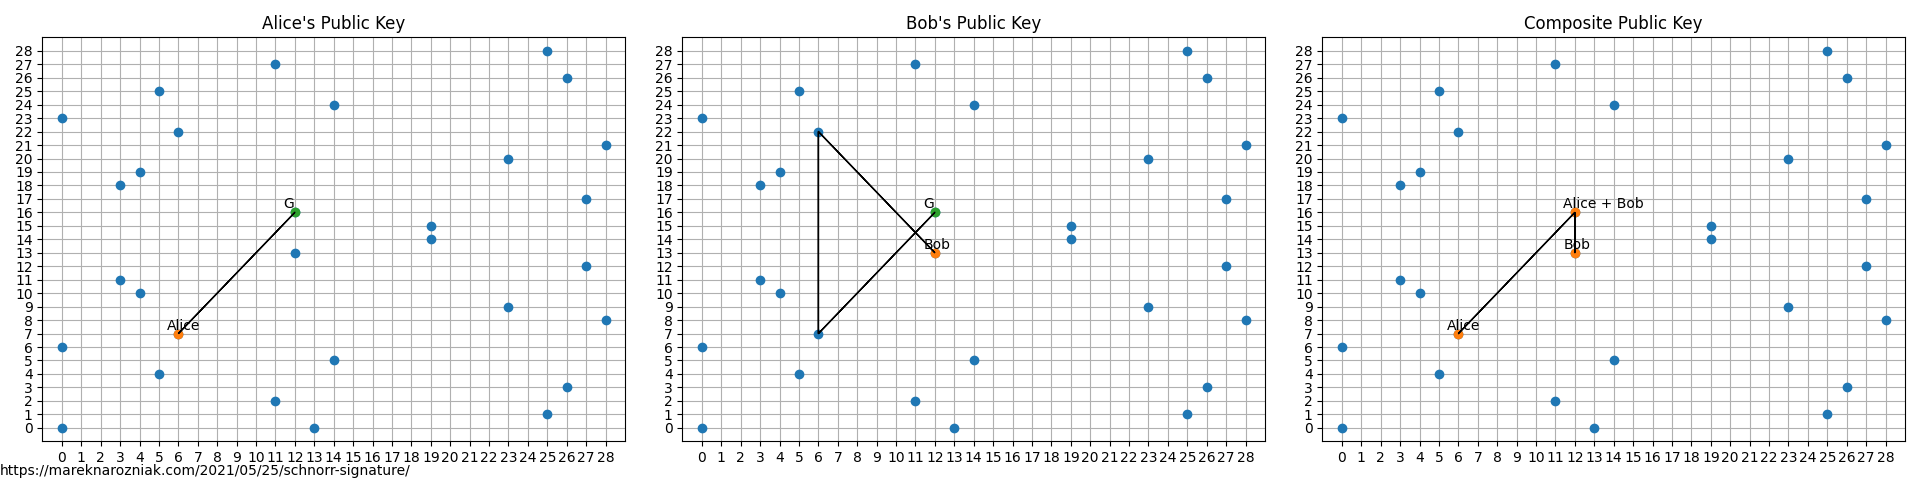
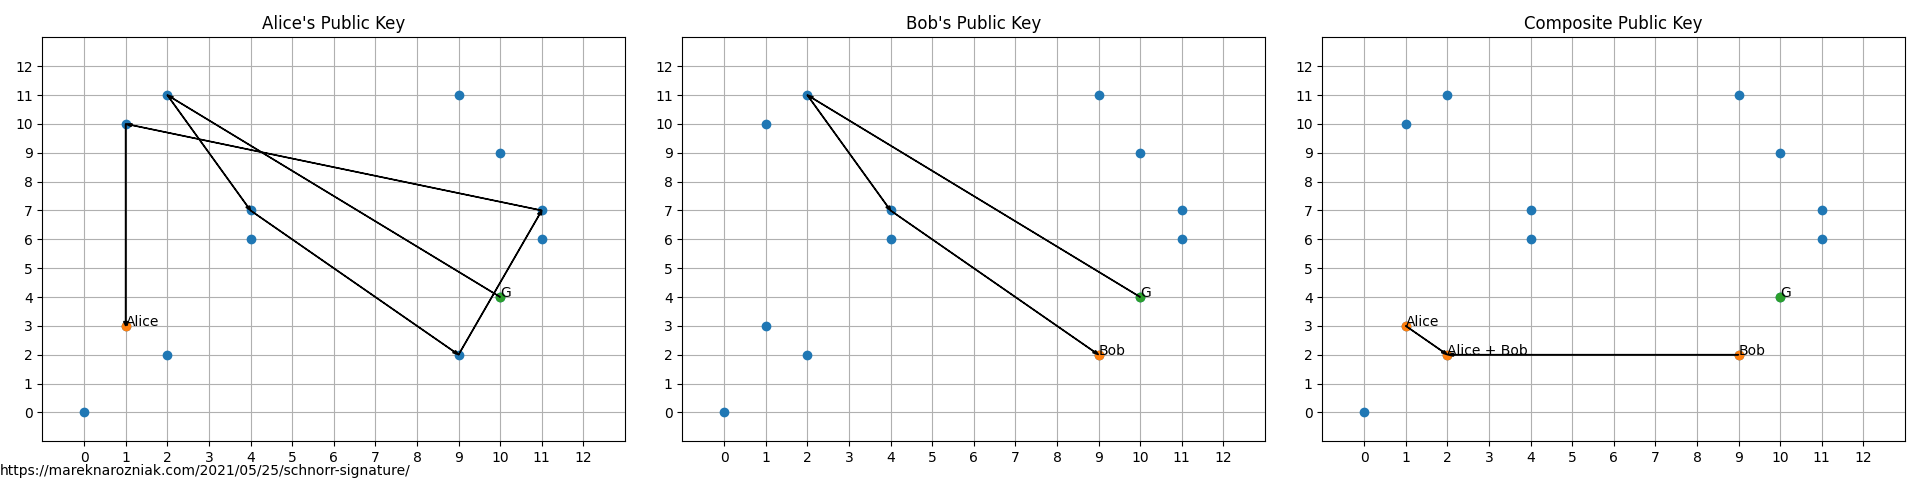
updated the schnorr signature tutorial to use the minicurve library

diff --git a/_posts/en/2021-05-25-schnorr-signature.md b/_posts/en/2021-05-25-schnorr-signature.md
@@ -58,36 +58,40 @@ s G = R + H(m \vert\vert P) P
 \end{aligned}
 $$
 
-in Python using our own ECC library as in previous tutorial the signature method is
+We will be using the [minicurve library](https://github.com/marekyggdrasil/minicurve) for implementing and visualizing this signature.
 
 ```python
-def sign(m, k, d, Gx, Gy, n, p=17, a=0, b=7):
-    # calculate public key R = k*G
-    _, _, Rx, Ry = eccScalarMult(k, Gx, Gy, a, b, p)
-    # calculate e = H(M || r) where || is concatenation
-    e = hashtard(m, p=n)
-    # calculate the signature
-    s = np.mod(k - d*e, n)
-    # signature is s, R
-    return s, Rx, Ry
+from minicurve import MiniCurve as mc
+from minicurve.helpers import inverse
 ```
 
-where $$ k $$ is the random nonce, $$ n $$ is the order of the group generated by $$ G $$ and $$ p $$ is the order of the entire finite field. We also the verification method
+The signature method is
 
 ```python
-def verify(m, s, Gx, Gy, Px, Py, Rx, Ry, n, p=17, a=0, b=7):
+def sign(m, k, d, G, p):
+    # calculate public key R = k*G
+    R = k*G
+    # calculate e = H(M || r) where || is concatenation
+    e = hashtard(m, p)
+    # calculate the signature
+    s = np.mod(k + d*e, p)
+    # signature is s, R
+    return s, R
+```
+
+where $$ k $$ is the random nonce, $$ p $$ is the order of the entire finite field. We also the verification method
+
+```python
+def verify(m, s, G, P, R, p):
     # e_v = H(M || r_v)
-    e = hashtard(m, p=n)
-    # lhs = s*G
-    _, _, sGx, sGy = eccScalarMult(s, Gx, Gy, a, b, p)
-    # e*P
-    _, _, ePx, ePy = eccScalarMult(e, Px, Py, a, b, p)
-    # rhs = R+(e*P)
-    r_x, r_y = eccFiniteAddition(Rx, Ry, ePx, ePy, a, b, p)
+    e = hashtard(m, p)
+    # calculate the verification
+    lhs = s*G
+    rhs = R+e*P
     # test if lhs = rhs
-    if r_x == sGx and r_y == sGy:
-        return True, r_x, r_y
-    return False, r_x, r_y
+    if lhs == rhs:
+        return True, lhs, rhs
+    return False, lhs, rhs
 ```
 
 The implementation is confusing, please refer to previous ECC tutorials for more details.
@@ -99,12 +103,6 @@ $$
 P_c = P_A + P_B
 \end{aligned}
 $$
-
-in the implementation of ECC I prepared for those tutorials that would be
-
-```python
-Px_comb, Py_comb = eccFiniteAddition(Px_alice, Py_alice, Px_bob, Py_bob, a, b, p)
-```
 
 then each of the participant is producing the signature, this should give us $$ \left< s_A, R_A \right> $$ and $$ \left< s_B, R_B \right> $$ for Bob. The $$ s_A $$ and $$ s_B $$ can be combined using modulo integer addition and for random points we use eliptic curve addition
 
@@ -123,15 +121,15 @@ As usual let us perform a little demo. Lets imagine a scenario in which a very i
 I say we take off and nuke the entire site from orbit. It's the only way to be sure.
 ```
 
-Private keys of Alice and Bob are respectively $$ 2 $$ and $$ 3 $$. Very insecure and small numbers, as they must fit in the range of prime order of group resulting from the generating point. Keys can be visualized as follows.
+Private keys of Alice and Bob are respectively $$ 3 $$ and $$ 5 $$. Very insecure and small numbers, as they must fit in the range of prime order of group resulting from the generating point. Keys can be visualized as follows.
 
-{% include figure.html url="#" fll="/assets/figures/png/schnorr-signatures/multisignature_keys.png" alt="" %}
+{% include figure.html min-width="100%" url="#" fll="/assets/figures/png/schnorr-signatures/multisignature_keys.png" alt="" %}
 
-then their respective random nonces are $$ 3 $$ and $$ 4 $$. Along with the ready signatures we can visualize as
+then their respective random nonces are $$ 3 $$ and $$ 5 $$. Along with the ready signatures and both sides of verification equation
 
-{% include figure.html url="#" fll="/assets/figures/png/schnorr-signatures/multisignature_verification.png" alt="" %}
+{% include figure.html min-width="100%" url="#" fll="/assets/figures/png/schnorr-signatures/multisignature_verification.png" alt="" %}
 
-and we can observe that only for the composite the recreated point matches proving the signature is valid. For this example I had to increase the prime order of the finite field from $$ p = 17 $$ into $$ p = 29 $$ to increase the number of available point for the nonces and keys.
+and we can observe that for all cases left hand side equals the right hand side indicating signatures validity.
 
 If you run the [source code](https://gist.github.com/marekyggdrasil/203e4356a21f1244c1381e264032f583) of this example you will see the outputs confirming validity of the result
 
